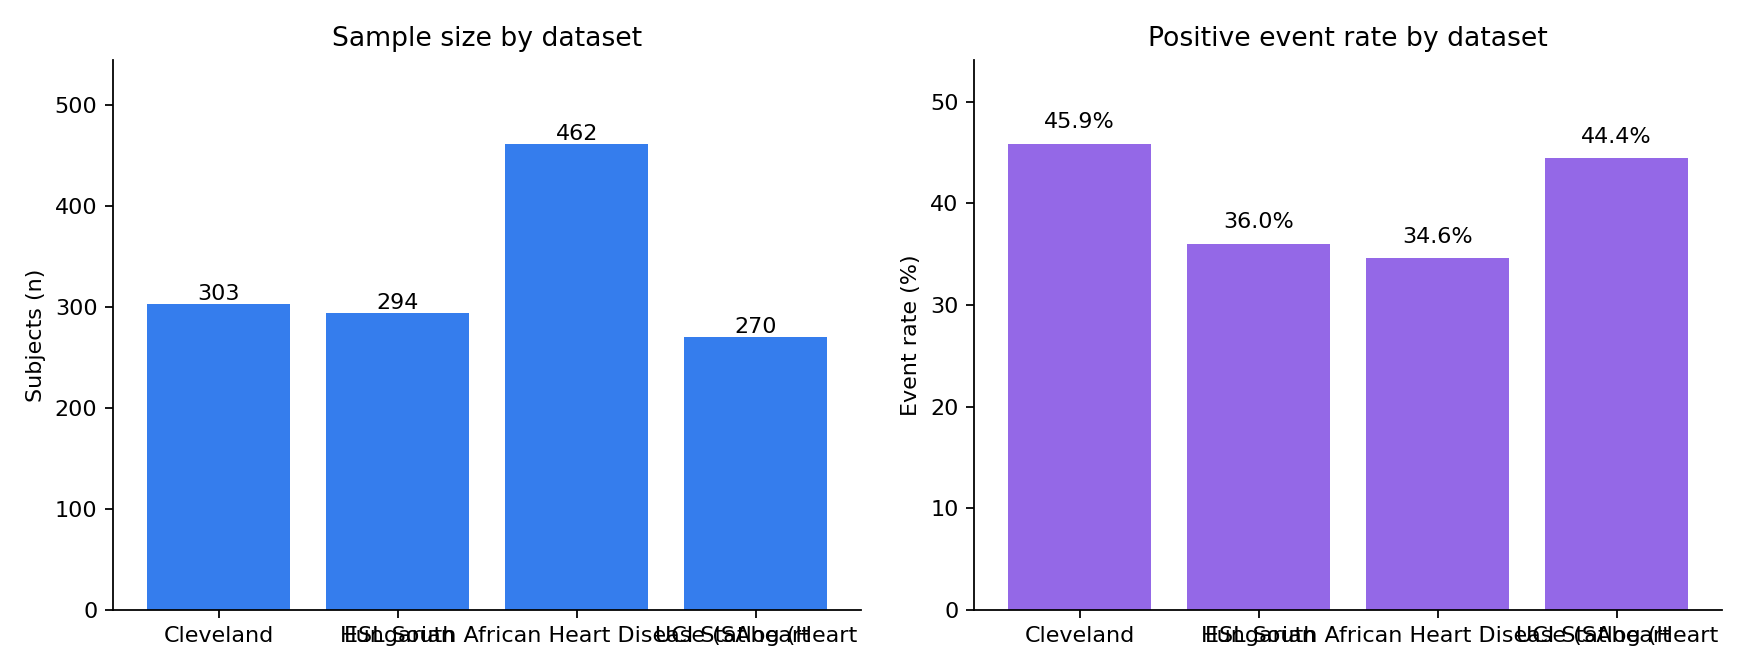
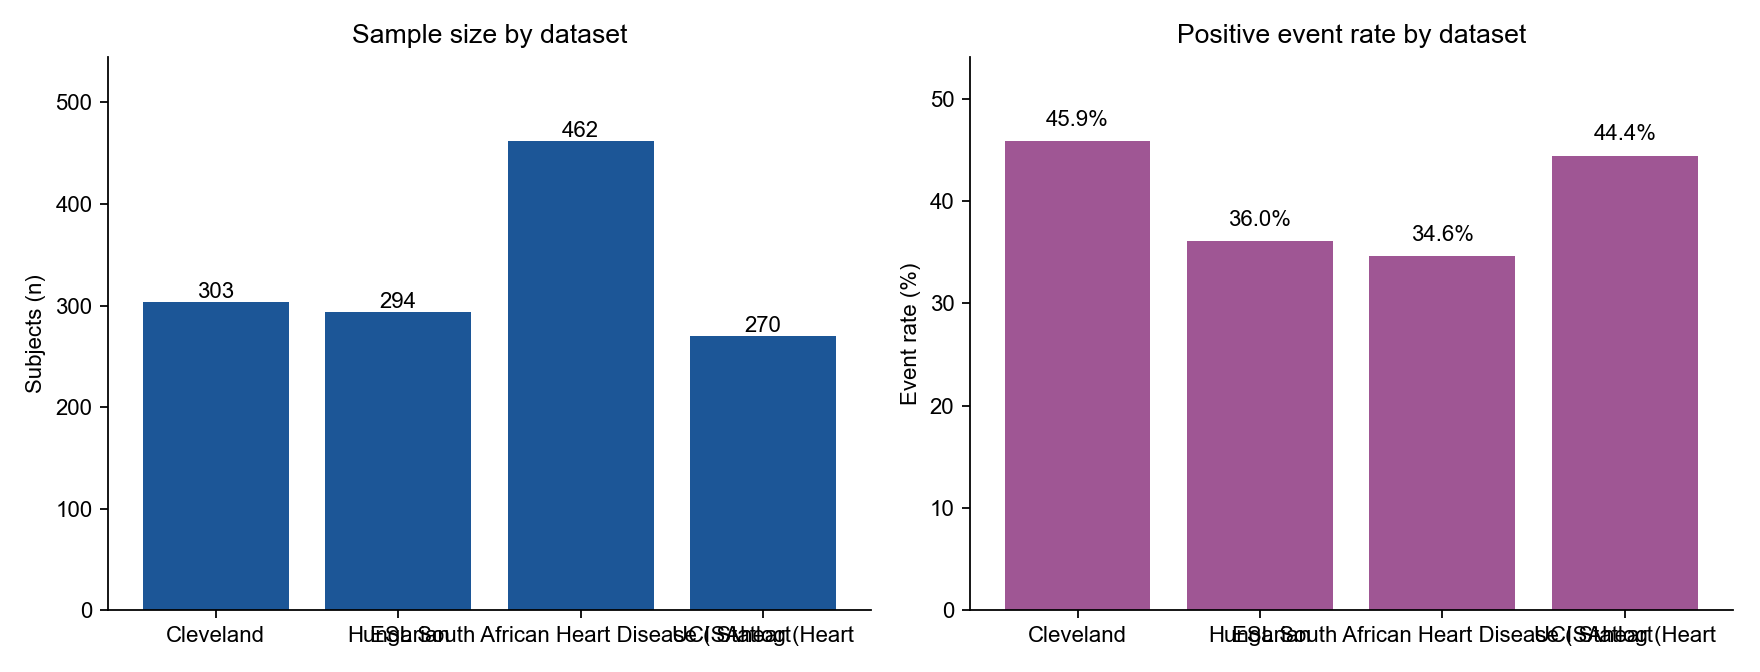
Recolor public validation figures with Nature-skill palette
Use the nature-skills DEFAULT_COLORS (#0F4D92 / #8BCF8B / #B64342 /
#42949E / #9A4D8E) for fig7-9 and apply Nature-style rcParams (Arial
sans-serif, outward ticks, no top/right spines). fig1-6 are unchanged.

diff --git a/scripts/make_public_figures.py b/scripts/make_public_figures.py
@@ -19,6 +19,16 @@ matplotlib.use("Agg")
 import matplotlib.pyplot as plt
 import numpy as np
 
+plt.rcParams.update({
+    "font.family": "sans-serif",
+    "font.sans-serif": ["Arial", "Helvetica", "DejaVu Sans"],
+    "axes.linewidth": 0.8,
+    "axes.spines.top": False,
+    "axes.spines.right": False,
+    "xtick.direction": "out",
+    "ytick.direction": "out",
+})
+
 ROOT = Path(__file__).resolve().parent.parent
 SUMMARIES = sorted((ROOT / "outputs" / "stage_public").glob("*_summary.json"))
 OUT = ROOT / "outputs" / "figures"
@@ -30,7 +40,10 @@ MODEL_SHORT = {
     "xgboost": "XGBoost",
     "lightgbm": "LightGBM",
 }
-PALETTE = ["#1f6feb", "#2ea043", "#bf8700", "#8957e5"]
+# Nature-skill palette (Yuan1z0825/nature-skills, nature-figure DEFAULT_COLORS):
+# blue_main #0F4D92, green_3 #8BCF8B, red_strong #B64342, teal #42949E,
+# violet #9A4D8E, neutral_light #CFCECE
+PALETTE = ["#0F4D92", "#8BCF8B", "#B64342", "#42949E", "#9A4D8E", "#CFCECE"]
 
 
 def load_reports() -> dict[str, dict]:
@@ -48,7 +61,7 @@ def fig7_overview(reports: dict[str, dict]) -> None:
     event_rate = [r["event_rate"] * 100 for r in reports.values()]
 
     fig, axes = plt.subplots(1, 2, figsize=(11, 4.2))
-    bars = axes[0].bar(short, n_rows, color=PALETTE[0], alpha=0.9)
+    bars = axes[0].bar(short, n_rows, color=PALETTE[0], alpha=0.95)
     for b, v in zip(bars, n_rows):
         axes[0].text(b.get_x() + b.get_width() / 2, v + 4, str(v),
                      ha="center", fontsize=10)
@@ -56,7 +69,7 @@ def fig7_overview(reports: dict[str, dict]) -> None:
     axes[0].set_ylabel("Subjects (n)")
     axes[0].set_ylim(0, max(n_rows) * 1.18)
 
-    bars = axes[1].bar(short, event_rate, color=PALETTE[3], alpha=0.9)
+    bars = axes[1].bar(short, event_rate, color=PALETTE[4], alpha=0.95)
     for b, v in zip(bars, event_rate):
         axes[1].text(b.get_x() + b.get_width() / 2, v + 1.5, f"{v:.1f}%",
                      ha="center", fontsize=10)
@@ -91,7 +104,7 @@ def fig8_auc_compare(reports: dict[str, dict]) -> None:
             for d in datasets
         ]
         bars = ax.bar(x + (i - 1.5) * width, aucs, width, label=MODEL_SHORT[model],
-                      color=PALETTE[i], alpha=0.92)
+                      color=PALETTE[i], alpha=0.95)
         for b, v in zip(bars, aucs):
             if not np.isnan(v):
                 ax.text(b.get_x() + b.get_width() / 2, v + 0.008, f"{v:.3f}",
